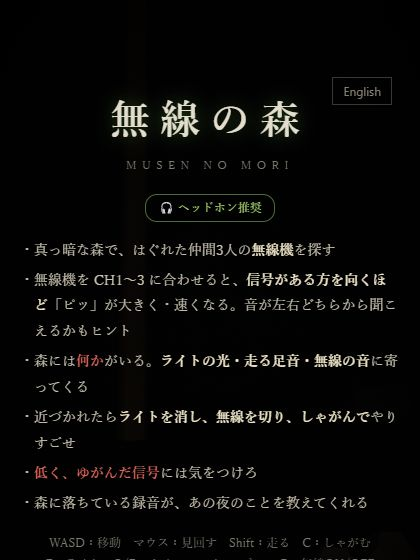
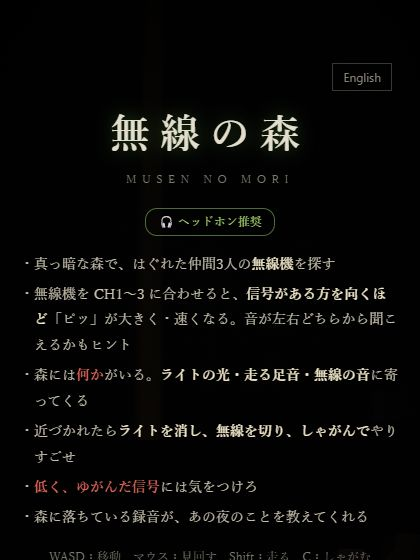
自動公開 / 更新: 無線の森

diff --git a/apps/musen-no-mori/index.html b/apps/musen-no-mori/index.html
@@ -61,8 +61,13 @@
   #guide .gR{right:2%}
   #guide b{font-size:19px;letter-spacing:.15em}
   #guide .gU{position:absolute;left:16px;right:16px;top:24%;text-align:center;font-size:14px;line-height:1.7;color:rgba(240,230,210,.85);text-shadow:0 0 6px #000}
+  body.en,body.en *{letter-spacing:.02em!important}
+  body.en .card h1{font-size:34px;letter-spacing:.12em!important}
+  body.touch #guide .gU{top:17%}
+  body.touch #guide .gL,body.touch #guide .gR{top:50%}
   .langb{position:absolute;top:12px;right:12px;background:none;border:1px solid #3a3730;color:#8f897a;font:12px system-ui,sans-serif;padding:5px 10px;cursor:pointer}
   .card{position:relative}
+  .langb + h1{margin-top:28px}
   body.touch #sub{bottom:calc(190px + env(safe-area-inset-bottom))}
 
   /* タッチ操作 */
